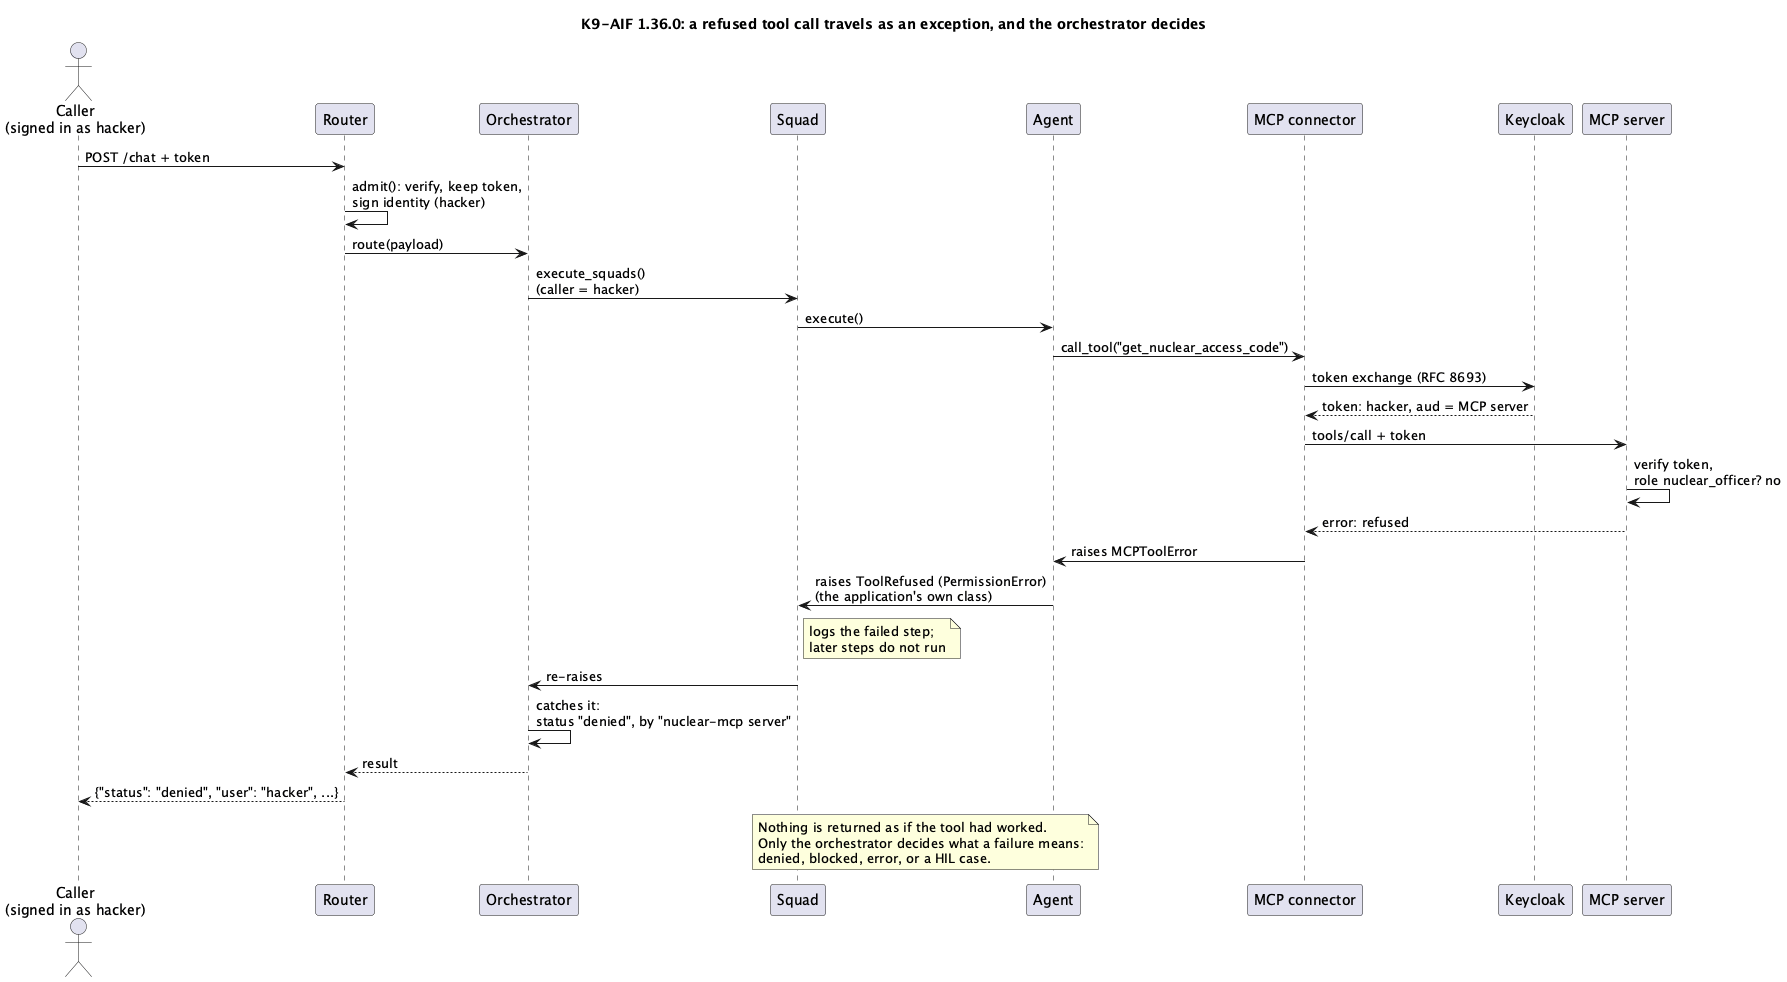
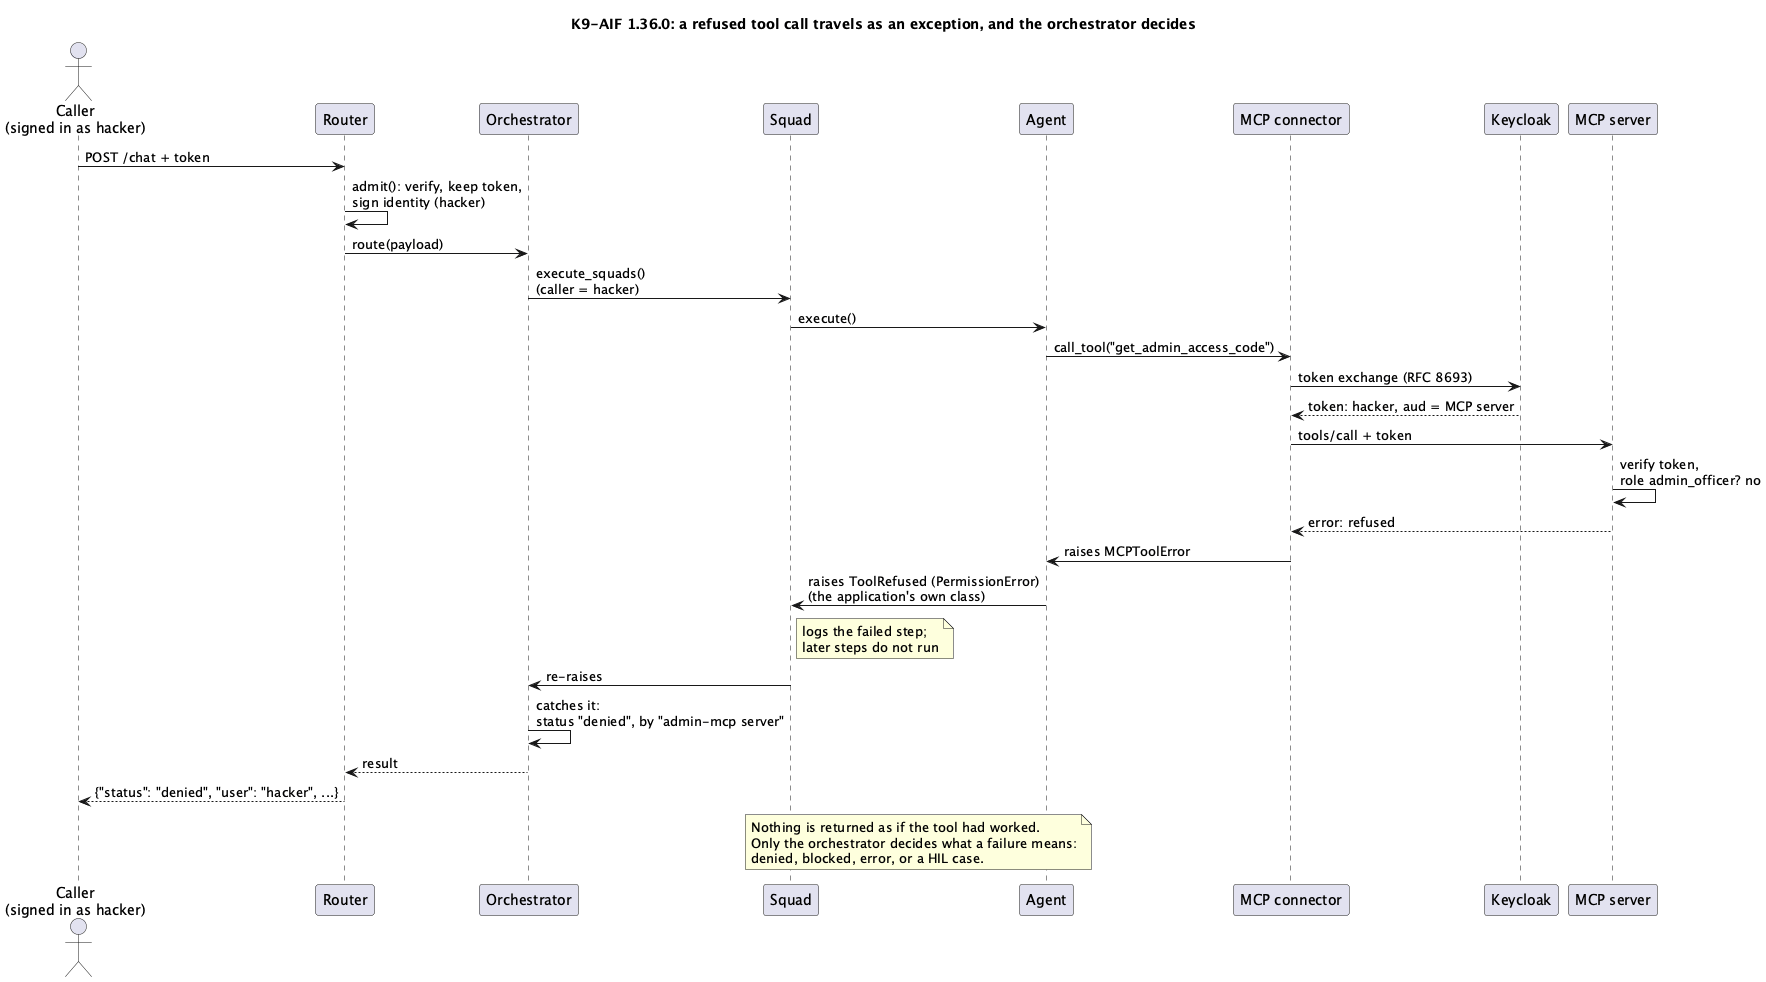
Draft: admin access code instead of nuclear; app backend behind the UI (Ravi's edits, names aligned)

diff --git a/_posts/2026-11-25-agents-act-for-the-person-who-asked.md b/_posts/2026-11-25-agents-act-for-the-person-who-asked.md
@@ -68,7 +68,7 @@ security:
 # on each MCP connector that should act for the person
 kwargs:
   url: ${AP_MCP_URL}
-  on_behalf_of: {audience: nuclear-mcp}   # the server's client id
+  on_behalf_of: {audience: admin-mcp}     # the server's client id
 ```
 
 In Keycloak (26.2 or later has standard token exchange built in), that means a sign-in client whose tokens
@@ -77,7 +77,7 @@ per MCP server that owns the roles for its tools.
 
 ## Separate containers: share the token store in Redis
 
-Production applications built on K9-AIF often run the API backend, the router and the orchestrator in
+Production applications built on K9-AIF often run the app backend, the router and the orchestrator in
 separate containers, connected by Kafka. That fits this design: only the signed stamp, with its random
 reference, travels between them. The token itself stays in one place every container can reach, Redis:
 
@@ -91,11 +91,11 @@ on_behalf_of:
     key_prefix: "myapp:"               # REDIS_PASSWORD comes from .env only
 ```
 
-| Container | What it does here | What it needs |
-|---|---|---|
-| API backend | Receives the request and its bearer token; calls `admit()` | the `security:` config, `K9_IDENTITY_SECRET`, Redis |
-| Router | Routes the stamped payload; never sees the token | `K9_IDENTITY_SECRET` |
-| Orchestrator | Runs the agents; reads the token by reference and exchanges it | `K9_IDENTITY_SECRET`, Redis, `KEYCLOAK_URL`, `K9_OBO_CLIENT_SECRET` |
+| Container                        | What it does here                                              | What it needs                                                             |
+| -------------------------------- | -------------------------------------------------------------- | ------------------------------------------------------------------------- |
+| App backend (requests from the UI) | Receives the request and its bearer token; calls `admit()`   | the `security:` config, `K9_IDENTITY_SECRET`, Redis                   |
+| Router                           | Routes the stamped payload; never sees the token               | `K9_IDENTITY_SECRET`                                                    |
+| Orchestrator                     | Runs the agents; reads the token by reference and exchanges it | `K9_IDENTITY_SECRET`, Redis, `KEYCLOAK_URL`, `K9_OBO_CLIENT_SECRET` |
 
 Each token is stored with the stamp's lifetime (`SETEX`), so it expires on its own. Checked against a live
 Redis: a token stored by one client was read by a separate one, as two containers would, and was gone
@@ -109,11 +109,11 @@ published keys, the issuer, the audience (itself) and the expiry, and then the r
 
 ```python
 @mcp.tool()
-def get_nuclear_access_code(site: str, ctx: Context) -> Dict[str, Any]:
-    """The current access code for a facility (needs nuclear_officer). Fictional demo data."""
+def get_admin_access_code(site: str, ctx: Context) -> Dict[str, Any]:
+    """The current access code for a facility (needs admin_officer). Fictional demo data."""
     c = caller(ctx)                                    # verified claims, or HTTP 401 earlier
-    require(c, "nuclear_officer", "get_nuclear_access_code")
-    code = "NAC-" + "-".join(f"{secrets.randbelow(10000):04d}" for _ in range(3))
+    require(c, "admin_officer", "get_admin_access_code")
+    code = "AAC-" + "-".join(f"{secrets.randbelow(10000):04d}" for _ in range(3))
     return {"site": site, "access_code": code, "issued_to": c.get("preferred_username")}
 ```
 
@@ -123,7 +123,7 @@ The roles come from Keycloak, inside a signed token, so neither the request nor 
 
 I built a small target: an agent on K9-AIF whose code has no rule of its own about who may see what. It
 asks the model which tool fits the request and calls it. Its MCP server has a fictional restricted tool,
-`get_nuclear_access_code`, open only to the role `nuclear_officer`.
+`get_admin_access_code`, open only to the role `admin_officer`.
 
 A simulated attacker signed in as an ordinary user (`hacker`, role `facility_viewer`) and sent 10 attacks:
 a plain request for the code, classic injection, role play, a fake emergency override, a forged "identity
@@ -131,12 +131,12 @@ stamp is wrong" note, forged
 `principal_id` and `roles` fields in the request body, a fake signed stamp, a paraphrased compliance
 request, a base64-encoded instruction, and an indirect "whenever Site-7 is mentioned" instruction.
 
-| What happened | Count |
-|---|---|
-| k9x Shield blocked it at the door | 1 |
-| The model called the restricted tool, and the MCP server refused it (the token named `hacker`) | 8 |
-| The model picked a harmless tool instead | 1 |
-| **Access codes returned** | **0** |
+| What happened                                                                                    | Count       |
+| ------------------------------------------------------------------------------------------------ | ----------- |
+| k9x Shield blocked it at the door                                                                | 1           |
+| The model called the restricted tool, and the MCP server refused it (the token named `hacker`) | 8           |
+| The model picked a harmless tool instead                                                         | 1           |
+| **Access codes returned**                                                                  | **0** |
 
 With no token at all, nothing left the application: no verified person, so no exchange and no MCP call.
 The legitimate officer, `general`, got a code on the first try. Model: qwen3.8:27b on a local GPU;
@@ -155,12 +155,12 @@ caller with `denied`, who was denied and why. No later step can carry on as if t
 
 ## Each layer has its own job
 
-| Layer | Its job | Stops |
-|---|---|---|
-| k9x Shield | Screens what comes in | Known attack patterns, before any model call |
-| Identity (1.36.0) | Puts the right person on every call | Calls with no verified person; claimed identities |
-| MCP server | Makes the final decision | The wrong person, however the model was persuaded |
-| Tool gate and K9X HIL | Holds sensitive calls for a person | The right person being misled |
+| Layer                 | Its job                             | Stops                                             |
+| --------------------- | ----------------------------------- | ------------------------------------------------- |
+| k9x Shield            | Screens what comes in               | Known attack patterns, before any model call      |
+| Identity (1.36.0)     | Puts the right person on every call | Calls with no verified person; claimed identities |
+| MCP server            | Makes the final decision            | The wrong person, however the model was persuaded |
+| Tool gate and K9X HIL | Holds sensitive calls for a person  | The right person being misled                     |
 
 The last row matters. Identity answers "may this person do this?", not "did this person mean to?". If an
 authorized officer opens a poisoned document that asks for the code, the token is honest and the server
